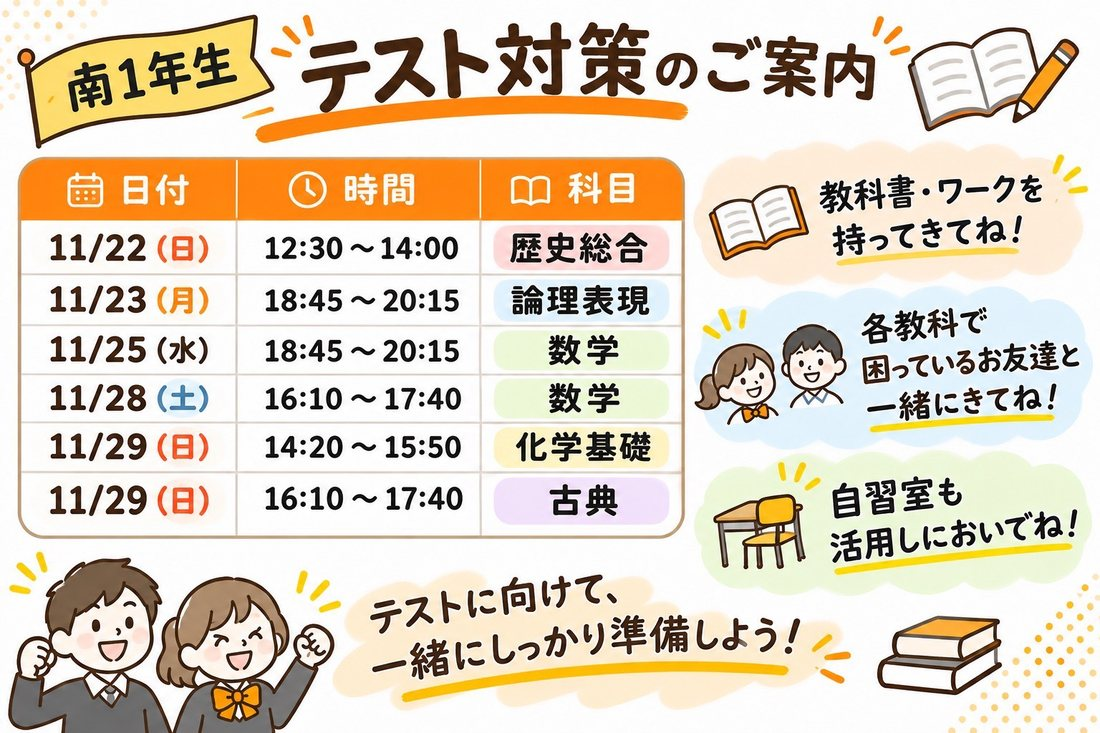
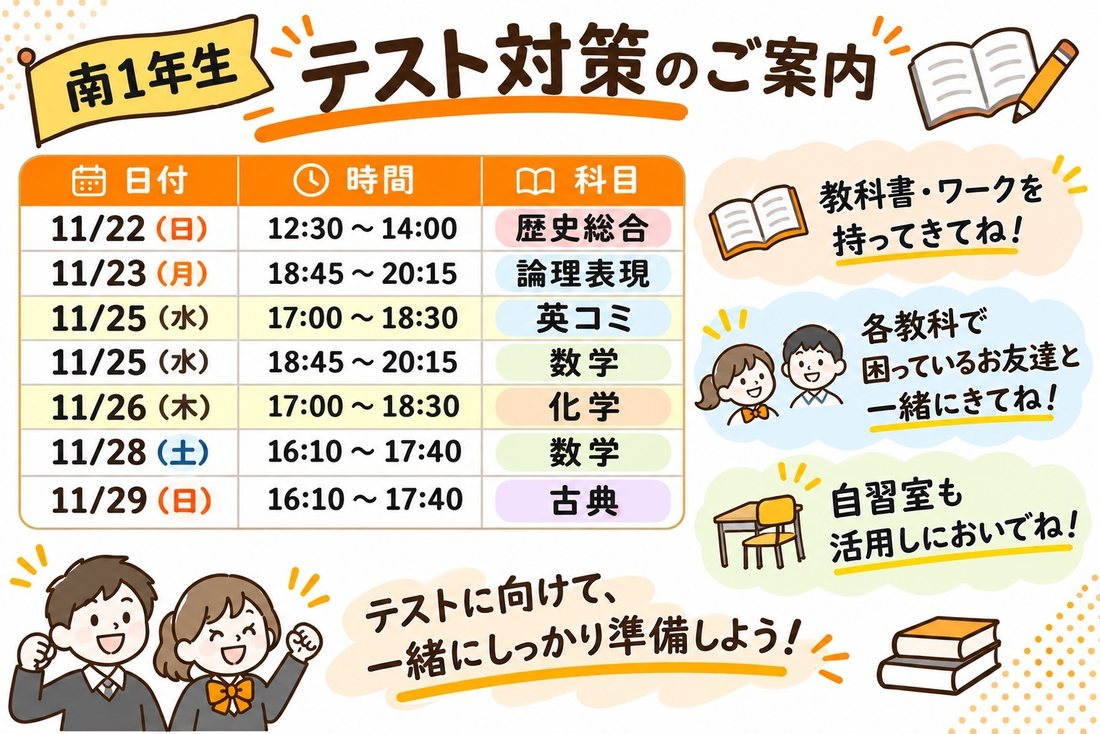
testtaisaku: 南1年の日程を変更（英コミ 11/25・化学 11/26 17:00〜を追加、11/29 化学基礎をやめる）
Claude-Session: https://claude.ai/code/session_018owQgFQp8tbjP1aYZa9Tmk

diff --git a/testtaisaku.html b/testtaisaku.html
@@ -222,7 +222,7 @@ footer p{margin:0 0 6px}
 <p class="sub">学校を<wbr>選んで、<wbr>学年の<wbr>タブを<wbr>押してください。</p>
 <p class="pick-hint" id="pick-hint">▼ あなたの学校は？</p>
 <div class="pick" role="group" aria-label="学校"><button class="sch" type="button" data-s="higashi" aria-pressed="false"><b>東</b><small>松山東高校</small></button><button class="sch" type="button" data-s="minami" aria-pressed="false"><b>南</b><small>松山南高校</small></button><button class="sch" type="button" data-s="kita" aria-pressed="false"><b>北</b><small>松山北高校</small></button><button class="sch" type="button" data-s="chuo" aria-pressed="false"><b>中央</b><small>松山中央高校</small></button><button class="sch" type="button" data-s="nishi" aria-pressed="false"><b>西</b><small>松山西中等教育学校</small></button><button class="sch" type="button" data-s="fuzoku" aria-pressed="false"><b>附属</b><small>愛媛大学附属高校</small></button></div>
-<div class="notebook" id="sc-higashi" data-s="higashi" data-short="東" hidden><p class="school-name"><b>松山東高校</b><span>2学期 期末テスト対策</span></p><p class="snote">全授業90分</p><div class="tabs" role="tablist" aria-label="学年"><button class="tab" role="tab" id="t-higashi-1" aria-controls="p-higashi-1" aria-selected="true" data-grade="1">1年生</button><button class="tab" role="tab" id="t-higashi-2" aria-controls="p-higashi-2" aria-selected="false" data-grade="2">2年生</button></div><div class="panel" role="tabpanel" id="p-higashi-1" aria-labelledby="t-higashi-1"><img src="testtaisaku/higashi_1.jpg?v=20261123" alt="松山東高校 1年生 テスト対策日程。11/21(土) 18:00〜 英コミ、11/25(水) 12:15〜 数学①、11/26(木) 12:15〜 歴史総合、11/26(木) 15:15〜 古典、11/28(土) 16:10〜 論表、11/28(土) 18:00〜 数学②、11/30(月) 17:00〜 化学基礎" width="1100" height="1375" loading="lazy"><details class="txt"><summary>日程を文字で見る</summary><table><tr><th>日付</th><th>時間</th><th>科目</th></tr><tr data-end="2026-11-21T19:30:00+09:00"><td class="d">11/21<span>（土）</span></td><td class="tm">18:00〜</td><td class="sj">英コミ</td></tr><tr data-end="2026-11-25T13:45:00+09:00"><td class="d">11/25<span>（水）</span></td><td class="tm">12:15〜</td><td class="sj">数学①</td></tr><tr data-end="2026-11-26T13:45:00+09:00"><td class="d">11/26<span>（木）</span></td><td class="tm">12:15〜</td><td class="sj">歴史総合</td></tr><tr data-end="2026-11-26T16:45:00+09:00"><td class="d">11/26<span>（木）</span></td><td class="tm">15:15〜</td><td class="sj">古典</td></tr><tr data-end="2026-11-28T17:40:00+09:00"><td class="d">11/28<span>（土）</span></td><td class="tm">16:10〜</td><td class="sj">論表</td></tr><tr data-end="2026-11-28T19:30:00+09:00"><td class="d">11/28<span>（土）</span></td><td class="tm">18:00〜</td><td class="sj">数学②</td></tr><tr data-end="2026-11-30T18:30:00+09:00"><td class="d">11/30<span>（月）</span></td><td class="tm">17:00〜</td><td class="sj">化学基礎</td></tr></table><p class="done-note">灰色は、終わった日程です。</p></details></div><div class="panel" role="tabpanel" id="p-higashi-2" aria-labelledby="t-higashi-2" hidden><img src="testtaisaku/higashi_2.jpg?v=20261123" alt="松山東高校 2年生 テスト対策日程。11/23(月・祝) 18:45〜 化学、11/25(水) 14:00〜 文系数学①、11/25(水) 15:00〜 理系数学①、11/25(水) 20:30〜 世界史、11/27(金) 17:00〜 古典、11/27(金) 18:45〜 理系数学②、11/27(金) 20:30〜 文系数学②、11/28(土) 14:20〜 論表" width="1100" height="1375" loading="lazy"><details class="txt"><summary>日程を文字で見る</summary><table><tr><th>日付</th><th>時間</th><th>科目</th></tr><tr data-end="2026-11-23T20:15:00+09:00"><td class="d">11/23<span>（月・祝）</span></td><td class="tm">18:45〜</td><td class="sj">化学</td></tr><tr data-end="2026-11-25T15:30:00+09:00"><td class="d">11/25<span>（水）</span></td><td class="tm">14:00〜</td><td class="sj">文系数学①</td></tr><tr data-end="2026-11-25T16:30:00+09:00"><td class="d">11/25<span>（水）</span></td><td class="tm">15:00〜</td><td class="sj">理系数学①</td></tr><tr data-end="2026-11-25T22:00:00+09:00"><td class="d">11/25<span>（水）</span></td><td class="tm">20:30〜</td><td class="sj">世界史</td></tr><tr data-end="2026-11-27T18:30:00+09:00"><td class="d">11/27<span>（金）</span></td><td class="tm">17:00〜</td><td class="sj">古典</td></tr><tr data-end="2026-11-27T20:15:00+09:00"><td class="d">11/27<span>（金）</span></td><td class="tm">18:45〜</td><td class="sj">理系数学②</td></tr><tr data-end="2026-11-27T22:00:00+09:00"><td class="d">11/27<span>（金）</span></td><td class="tm">20:30〜</td><td class="sj">文系数学②</td></tr><tr data-end="2026-11-28T15:50:00+09:00"><td class="d">11/28<span>（土）</span></td><td class="tm">14:20〜</td><td class="sj">論表</td></tr></table><p class="done-note">灰色は、終わった日程です。</p></details></div><div class="under"><a class="btn main" href="https://liff.line.me/1654282071-yKj0v7k8/landing?follow=%40354wbuiz&amp;lp=cX2AwV&amp;liff_id=1654282071-yKj0v7k8">この日程で<wbr>参加予約する</a></div></div><div class="notebook" id="sc-minami" data-s="minami" data-short="南" hidden><p class="school-name"><b>松山南高校</b><span>2学期 期末テスト対策</span></p><p class="snote">教科書・ワークを持ってきてください</p><div class="tabs" role="tablist" aria-label="学年"><button class="tab" role="tab" id="t-minami-1" aria-controls="p-minami-1" aria-selected="true" data-grade="1">1年生</button><button class="tab" role="tab" id="t-minami-2" aria-controls="p-minami-2" aria-selected="false" data-grade="2">2年生</button></div><div class="panel" role="tabpanel" id="p-minami-1" aria-labelledby="t-minami-1"><img src="testtaisaku/minami_1.jpg?v=20261123" alt="松山南高校 1年生 テスト対策日程。11/22(日) 12:30〜14:00 歴史総合、11/23(月・祝) 18:45〜20:15 論理表現、11/25(水) 18:45〜20:15 数学、11/28(土) 16:10〜17:40 数学、11/29(日) 14:20〜15:50 化学基礎、11/29(日) 16:10〜17:40 古典" width="1100" height="733" loading="lazy"><details class="txt"><summary>日程を文字で見る</summary><table><tr><th>日付</th><th>時間</th><th>科目</th></tr><tr data-end="2026-11-22T14:00:00+09:00"><td class="d">11/22<span>（日）</span></td><td class="tm">12:30〜14:00</td><td class="sj">歴史総合</td></tr><tr data-end="2026-11-23T20:15:00+09:00"><td class="d">11/23<span>（月・祝）</span></td><td class="tm">18:45〜20:15</td><td class="sj">論理表現</td></tr><tr data-end="2026-11-25T20:15:00+09:00"><td class="d">11/25<span>（水）</span></td><td class="tm">18:45〜20:15</td><td class="sj">数学</td></tr><tr data-end="2026-11-28T17:40:00+09:00"><td class="d">11/28<span>（土）</span></td><td class="tm">16:10〜17:40</td><td class="sj">数学</td></tr><tr data-end="2026-11-29T15:50:00+09:00"><td class="d">11/29<span>（日）</span></td><td class="tm">14:20〜15:50</td><td class="sj">化学基礎</td></tr><tr data-end="2026-11-29T17:40:00+09:00"><td class="d">11/29<span>（日）</span></td><td class="tm">16:10〜17:40</td><td class="sj">古典</td></tr></table><p class="done-note">灰色は、終わった日程です。</p></details></div><div class="panel" role="tabpanel" id="p-minami-2" aria-labelledby="t-minami-2" hidden><img src="testtaisaku/minami_2.jpg?v=20261123" alt="松山南高校 2年生 テスト対策日程。11/23(月・祝) 17:00〜18:30 古典、11/23(月・祝) 18:45〜20:15 生物、11/24(火) 14:00〜15:30 数学、11/26(木) 14:00〜15:30 英コミ、11/27(金) 15:15〜16:45 数学、11/29(日) 16:10〜17:40 化学" width="1100" height="733" loading="lazy"><details class="txt"><summary>日程を文字で見る</summary><table><tr><th>日付</th><th>時間</th><th>科目</th></tr><tr data-end="2026-11-23T18:30:00+09:00"><td class="d">11/23<span>（月・祝）</span></td><td class="tm">17:00〜18:30</td><td class="sj">古典</td></tr><tr data-end="2026-11-23T20:15:00+09:00"><td class="d">11/23<span>（月・祝）</span></td><td class="tm">18:45〜20:15</td><td class="sj">生物</td></tr><tr data-end="2026-11-24T15:30:00+09:00"><td class="d">11/24<span>（火）</span></td><td class="tm">14:00〜15:30</td><td class="sj">数学</td></tr><tr data-end="2026-11-26T15:30:00+09:00"><td class="d">11/26<span>（木）</span></td><td class="tm">14:00〜15:30</td><td class="sj">英コミ</td></tr><tr data-end="2026-11-27T16:45:00+09:00"><td class="d">11/27<span>（金）</span></td><td class="tm">15:15〜16:45</td><td class="sj">数学</td></tr><tr data-end="2026-11-29T17:40:00+09:00"><td class="d">11/29<span>（日）</span></td><td class="tm">16:10〜17:40</td><td class="sj">化学</td></tr></table><p class="done-note">灰色は、終わった日程です。</p></details></div><div class="under"><a class="btn main" href="https://liff.line.me/1654282071-yKj0v7k8/landing?follow=%40354wbuiz&amp;lp=cX2AwV&amp;liff_id=1654282071-yKj0v7k8">この日程で<wbr>参加予約する</a></div></div><div class="notebook" id="sc-kita" data-s="kita" data-short="北" hidden><p class="school-name"><b>松山北高校</b><span>2学期 期末テスト対策</span></p><div class="tabs" role="tablist" aria-label="学年"><button class="tab" role="tab" id="t-kita-1" aria-controls="p-kita-1" aria-selected="true" data-grade="1">1年生</button><button class="tab" role="tab" id="t-kita-2" aria-controls="p-kita-2" aria-selected="false" data-grade="2">2年生</button></div><div class="panel" role="tabpanel" id="p-kita-1" aria-labelledby="t-kita-1"><img src="testtaisaku/kita_1.jpg?v=20261123" alt="松山北高校 1年生 テスト対策日程。11/20(金) 18:45〜 論理表現、11/23(月・祝) 17:00〜18:30 数学、11/24(火) 17:00〜 言語文化、11/25(水) 17:00〜18:30 化学基礎、11/26(木) 15:20〜16:50 数学、11/26(木) 17:00〜 英語コミュニケーション" width="1100" height="1375" loading="lazy"><details class="txt"><summary>日程を文字で見る</summary><table><tr><th>日付</th><th>時間</th><th>科目</th></tr><tr data-end="2026-11-20T20:15:00+09:00"><td class="d">11/20<span>（金）</span></td><td class="tm">18:45〜</td><td class="sj">論理表現</td></tr><tr data-end="2026-11-23T18:30:00+09:00"><td class="d">11/23<span>（月・祝）</span></td><td class="tm">17:00〜18:30</td><td class="sj">数学</td></tr><tr data-end="2026-11-24T18:30:00+09:00"><td class="d">11/24<span>（火）</span></td><td class="tm">17:00〜</td><td class="sj">言語文化</td></tr><tr data-end="2026-11-25T18:30:00+09:00"><td class="d">11/25<span>（水）</span></td><td class="tm">17:00〜18:30</td><td class="sj">化学基礎</td></tr><tr data-end="2026-11-26T16:50:00+09:00"><td class="d">11/26<span>（木）</span></td><td class="tm">15:20〜16:50</td><td class="sj">数学</td></tr><tr data-end="2026-11-26T18:30:00+09:00"><td class="d">11/26<span>（木）</span></td><td class="tm">17:00〜</td><td class="sj">英語コミュニケーション</td></tr></table><p class="done-note">灰色は、終わった日程です。</p></details></div><div class="panel" role="tabpanel" id="p-kita-2" aria-labelledby="t-kita-2" hidden><img src="testtaisaku/kita_2.jpg?v=20261123" alt="松山北高校 2年生 テスト対策日程。11/23(月・祝) 17:00〜18:30 古文、11/24(火) 18:45〜20:15 数学（文系・理系合同）、11/25(水) 15:40〜16:50 物理（力学）、11/26(木) 18:45〜20:15 英語、11/27(金) 17:00〜18:30 化学、11/27(金) 18:45〜20:15 文系数学、11/27(金) 20:30〜22:00 理系数学" width="1100" height="1375" loading="lazy"><details class="txt"><summary>日程を文字で見る</summary><table><tr><th>日付</th><th>時間</th><th>科目</th></tr><tr data-end="2026-11-23T18:30:00+09:00"><td class="d">11/23<span>（月・祝）</span></td><td class="tm">17:00〜18:30</td><td class="sj">古文</td></tr><tr data-end="2026-11-24T20:15:00+09:00"><td class="d">11/24<span>（火）</span></td><td class="tm">18:45〜20:15</td><td class="sj">数学（文系・理系合同）</td></tr><tr data-end="2026-11-25T16:50:00+09:00"><td class="d">11/25<span>（水）</span></td><td class="tm">15:40〜16:50</td><td class="sj">物理（力学）</td></tr><tr data-end="2026-11-26T20:15:00+09:00"><td class="d">11/26<span>（木）</span></td><td class="tm">18:45〜20:15</td><td class="sj">英語</td></tr><tr data-end="2026-11-27T18:30:00+09:00"><td class="d">11/27<span>（金）</span></td><td class="tm">17:00〜18:30</td><td class="sj">化学</td></tr><tr data-end="2026-11-27T20:15:00+09:00"><td class="d">11/27<span>（金）</span></td><td class="tm">18:45〜20:15</td><td class="sj">文系数学</td></tr><tr data-end="2026-11-27T22:00:00+09:00"><td class="d">11/27<span>（金）</span></td><td class="tm">20:30〜22:00</td><td class="sj">理系数学</td></tr></table><p class="done-note">灰色は、終わった日程です。</p></details></div><div class="under"><a class="btn main" href="https://liff.line.me/1654282071-yKj0v7k8/landing?follow=%40354wbuiz&amp;lp=cX2AwV&amp;liff_id=1654282071-yKj0v7k8">この日程で<wbr>参加予約する</a></div></div><div class="notebook" id="sc-chuo" data-s="chuo" data-short="中央" hidden><p class="school-name"><b>松山中央高校</b><span>2学期 期末テスト対策</span></p><p class="snote">2年生は、希望があればテスト対策の追加もあります</p><div class="tabs" role="tablist" aria-label="学年"><button class="tab" role="tab" id="t-chuo-1" aria-controls="p-chuo-1" aria-selected="true" data-grade="1">1年生</button><button class="tab" role="tab" id="t-chuo-2" aria-controls="p-chuo-2" aria-selected="false" data-grade="2">2年生</button></div><div class="panel" role="tabpanel" id="p-chuo-1" aria-labelledby="t-chuo-1"><img src="testtaisaku/chuo_1.jpg?v=20261123" alt="松山中央高校 1年生 テスト対策日程。11/24(火) 17:00〜18:30 数A 石井校、11/25(水) 13:30〜15:00 論表 石井校、11/26(木) 13:30〜15:00 英コミ 石井校、11/28(土) 12:30〜14:00 数Ⅰ 大街道、11/30(月) 16:30〜18:00 化学基礎 石井校" width="1100" height="733" loading="lazy"><details class="txt"><summary>日程を文字で見る</summary><table><tr><th>日付</th><th>時間</th><th>科目</th><th>教室</th></tr><tr data-end="2026-11-24T18:30:00+09:00"><td class="d">11/24<span>（火）</span></td><td class="tm">17:00〜18:30</td><td class="sj">数A</td><td class="pl">石井校</td></tr><tr data-end="2026-11-25T15:00:00+09:00"><td class="d">11/25<span>（水）</span></td><td class="tm">13:30〜15:00</td><td class="sj">論表</td><td class="pl">石井校</td></tr><tr data-end="2026-11-26T15:00:00+09:00"><td class="d">11/26<span>（木）</span></td><td class="tm">13:30〜15:00</td><td class="sj">英コミ</td><td class="pl">石井校</td></tr><tr data-end="2026-11-28T14:00:00+09:00"><td class="d">11/28<span>（土）</span></td><td class="tm">12:30〜14:00</td><td class="sj">数Ⅰ</td><td class="pl">大街道</td></tr><tr data-end="2026-11-30T18:00:00+09:00"><td class="d">11/30<span>（月）</span></td><td class="tm">16:30〜18:00</td><td class="sj">化学基礎</td><td class="pl">石井校</td></tr></table><p class="done-note">灰色は、終わった日程です。</p></details></div><div class="panel" role="tabpanel" id="p-chuo-2" aria-labelledby="t-chuo-2" hidden><img src="testtaisaku/chuo_2.jpg?v=20261123" alt="松山中央高校 2年生 テスト対策日程。11/23(月・祝) 15:15〜16:45 数学B 大街道、11/28(土) 12:30〜14:00 数学Ⅱ 大街道、11/28(土) 14:20〜15:50 化学 大街道、11/30(月) 15:00〜16:30 論理表現 石井校" width="1100" height="733" loading="lazy"><details class="txt"><summary>日程を文字で見る</summary><table><tr><th>日付</th><th>時間</th><th>科目</th><th>教室</th></tr><tr data-end="2026-11-23T16:45:00+09:00"><td class="d">11/23<span>（月・祝）</span></td><td class="tm">15:15〜16:45</td><td class="sj">数学B</td><td class="pl">大街道</td></tr><tr data-end="2026-11-28T14:00:00+09:00"><td class="d">11/28<span>（土）</span></td><td class="tm">12:30〜14:00</td><td class="sj">数学Ⅱ</td><td class="pl">大街道</td></tr><tr data-end="2026-11-28T15:50:00+09:00"><td class="d">11/28<span>（土）</span></td><td class="tm">14:20〜15:50</td><td class="sj">化学</td><td class="pl">大街道</td></tr><tr data-end="2026-11-30T16:30:00+09:00"><td class="d">11/30<span>（月）</span></td><td class="tm">15:00〜16:30</td><td class="sj">論理表現</td><td class="pl">石井校</td></tr></table><p class="done-note">灰色は、終わった日程です。</p></details></div><div class="under"><a class="btn main" href="https://liff.line.me/1654282071-yKj0v7k8/landing?follow=%40354wbuiz&amp;lp=cX2AwV&amp;liff_id=1654282071-yKj0v7k8">この日程で<wbr>参加予約する</a></div></div><div class="notebook" id="sc-nishi" data-s="nishi" data-short="西" hidden><p class="school-name"><b>松山西中等教育学校</b><span>2学期 期末テスト対策</span></p><div class="tabs" role="tablist" aria-label="学年"><button class="tab" role="tab" id="t-nishi-4" aria-controls="p-nishi-4" aria-selected="true" data-grade="4">4年生</button><button class="tab" role="tab" id="t-nishi-5" aria-controls="p-nishi-5" aria-selected="false" data-grade="5">5年生</button></div><div class="panel" role="tabpanel" id="p-nishi-4" aria-labelledby="t-nishi-4"><img src="testtaisaku/nishi_4.jpg?v=20261123" alt="松山西中等教育学校 4年生 テスト対策日程。11/22(日) 12:30〜14:00 数学Ⅱα、11/24(火) 17:00〜18:30 英コミ、11/26(木) 14:00〜15:30 論表、11/28(土) 14:20〜15:50 数学Ⅱβ、11/29(日) 12:30〜14:00 化学基礎、11/30(月) 17:00〜18:30 言語文化" width="1100" height="1204" loading="lazy"><details class="txt"><summary>日程を文字で見る</summary><table><tr><th>日付</th><th>時間</th><th>科目</th></tr><tr data-end="2026-11-22T14:00:00+09:00"><td class="d">11/22<span>（日）</span></td><td class="tm">12:30〜14:00</td><td class="sj">数学Ⅱα</td></tr><tr data-end="2026-11-24T18:30:00+09:00"><td class="d">11/24<span>（火）</span></td><td class="tm">17:00〜18:30</td><td class="sj">英コミ</td></tr><tr data-end="2026-11-26T15:30:00+09:00"><td class="d">11/26<span>（木）</span></td><td class="tm">14:00〜15:30</td><td class="sj">論表</td></tr><tr data-end="2026-11-28T15:50:00+09:00"><td class="d">11/28<span>（土）</span></td><td class="tm">14:20〜15:50</td><td class="sj">数学Ⅱβ</td></tr><tr data-end="2026-11-29T14:00:00+09:00"><td class="d">11/29<span>（日）</span></td><td class="tm">12:30〜14:00</td><td class="sj">化学基礎</td></tr><tr data-end="2026-11-30T18:30:00+09:00"><td class="d">11/30<span>（月）</span></td><td class="tm">17:00〜18:30</td><td class="sj">言語文化</td></tr></table><p class="done-note">灰色は、終わった日程です。</p></details></div><div class="panel" role="tabpanel" id="p-nishi-5" aria-labelledby="t-nishi-5" hidden><img src="testtaisaku/nishi_5.jpg?v=20261123" alt="松山西中等教育学校 5年生 テスト対策日程。11/22(日) 16:10〜17:40 数学Ⅱ、11/26(木) 15:15〜16:45 数学B、11/30(月) 18:45〜20:15 論表" width="1100" height="1204" loading="lazy"><details class="txt"><summary>日程を文字で見る</summary><table><tr><th>日付</th><th>時間</th><th>科目</th></tr><tr data-end="2026-11-22T17:40:00+09:00"><td class="d">11/22<span>（日）</span></td><td class="tm">16:10〜17:40</td><td class="sj">数学Ⅱ</td></tr><tr data-end="2026-11-26T16:45:00+09:00"><td class="d">11/26<span>（木）</span></td><td class="tm">15:15〜16:45</td><td class="sj">数学B</td></tr><tr data-end="2026-11-30T20:15:00+09:00"><td class="d">11/30<span>（月）</span></td><td class="tm">18:45〜20:15</td><td class="sj">論表</td></tr></table><p class="done-note">灰色は、終わった日程です。</p></details></div><div class="under"><a class="btn main" href="https://liff.line.me/1654282071-yKj0v7k8/landing?follow=%40354wbuiz&amp;lp=cX2AwV&amp;liff_id=1654282071-yKj0v7k8">この日程で<wbr>参加予約する</a></div></div><div class="notebook" id="sc-fuzoku" data-s="fuzoku" data-short="附属" hidden><p class="school-name"><b>愛媛大学附属高校</b><span>2学期 期末テスト対策</span></p><div class="tabs" role="tablist" aria-label="学年"><button class="tab" role="tab" id="t-fuzoku-1" aria-controls="p-fuzoku-1" aria-selected="true" data-grade="1">1年生</button><button class="tab" role="tab" id="t-fuzoku-2" aria-controls="p-fuzoku-2" aria-selected="false" data-grade="2">2年生</button></div><div class="panel" role="tabpanel" id="p-fuzoku-1" aria-labelledby="t-fuzoku-1"><img src="testtaisaku/fuzoku_1.jpg?v=20261123" alt="愛媛大学附属高校 1年生 テスト対策日程。11/23(月・祝) 18:45〜20:15 言語文化、11/25(水) 20:30〜22:00 数学Ⅰ、11/26(木) 17:00〜18:30 論理・表現、11/27(金) 14:00〜15:30 化学基礎、11/30(月) 14:00〜15:30 英コミ、11/30(月) 18:45〜20:15 数学A" width="1100" height="1375" loading="lazy"><details class="txt"><summary>日程を文字で見る</summary><table><tr><th>日付</th><th>時間</th><th>科目</th></tr><tr data-end="2026-11-23T20:15:00+09:00"><td class="d">11/23<span>（月・祝）</span></td><td class="tm">18:45〜20:15</td><td class="sj">言語文化</td></tr><tr data-end="2026-11-25T22:00:00+09:00"><td class="d">11/25<span>（水）</span></td><td class="tm">20:30〜22:00</td><td class="sj">数学Ⅰ</td></tr><tr data-end="2026-11-26T18:30:00+09:00"><td class="d">11/26<span>（木）</span></td><td class="tm">17:00〜18:30</td><td class="sj">論理・表現</td></tr><tr data-end="2026-11-27T15:30:00+09:00"><td class="d">11/27<span>（金）</span></td><td class="tm">14:00〜15:30</td><td class="sj">化学基礎</td></tr><tr data-end="2026-11-30T15:30:00+09:00"><td class="d">11/30<span>（月）</span></td><td class="tm">14:00〜15:30</td><td class="sj">英コミ</td></tr><tr data-end="2026-11-30T20:15:00+09:00"><td class="d">11/30<span>（月）</span></td><td class="tm">18:45〜20:15</td><td class="sj">数学A</td></tr></table><p class="done-note">灰色は、終わった日程です。</p></details></div><div class="panel" role="tabpanel" id="p-fuzoku-2" aria-labelledby="t-fuzoku-2" hidden><img src="testtaisaku/fuzoku_2.jpg?v=20261123" alt="愛媛大学附属高校 2年生 テスト対策日程。11/24(火) 18:45〜20:15 古典、11/24(火) 20:30〜22:00 数B、11/25(水) 12:15〜13:45 歴史総合、11/25(水) 14:00〜15:30 化学、11/28(土) 16:10〜17:40 数Ⅱ、11/28(土) 18:00〜19:30 英コミ" width="1100" height="1375" loading="lazy"><details class="txt"><summary>日程を文字で見る</summary><table><tr><th>日付</th><th>時間</th><th>科目</th></tr><tr data-end="2026-11-24T20:15:00+09:00"><td class="d">11/24<span>（火）</span></td><td class="tm">18:45〜20:15</td><td class="sj">古典</td></tr><tr data-end="2026-11-24T22:00:00+09:00"><td class="d">11/24<span>（火）</span></td><td class="tm">20:30〜22:00</td><td class="sj">数B</td></tr><tr data-end="2026-11-25T13:45:00+09:00"><td class="d">11/25<span>（水）</span></td><td class="tm">12:15〜13:45</td><td class="sj">歴史総合</td></tr><tr data-end="2026-11-25T15:30:00+09:00"><td class="d">11/25<span>（水）</span></td><td class="tm">14:00〜15:30</td><td class="sj">化学</td></tr><tr data-end="2026-11-28T17:40:00+09:00"><td class="d">11/28<span>（土）</span></td><td class="tm">16:10〜17:40</td><td class="sj">数Ⅱ</td></tr><tr data-end="2026-11-28T19:30:00+09:00"><td class="d">11/28<span>（土）</span></td><td class="tm">18:00〜19:30</td><td class="sj">英コミ</td></tr></table><p class="done-note">灰色は、終わった日程です。</p></details></div><div class="under"><a class="btn main" href="https://liff.line.me/1654282071-yKj0v7k8/landing?follow=%40354wbuiz&amp;lp=cX2AwV&amp;liff_id=1654282071-yKj0v7k8">この日程で<wbr>参加予約する</a></div></div>
+<div class="notebook" id="sc-higashi" data-s="higashi" data-short="東" hidden><p class="school-name"><b>松山東高校</b><span>2学期 期末テスト対策</span></p><p class="snote">全授業90分</p><div class="tabs" role="tablist" aria-label="学年"><button class="tab" role="tab" id="t-higashi-1" aria-controls="p-higashi-1" aria-selected="true" data-grade="1">1年生</button><button class="tab" role="tab" id="t-higashi-2" aria-controls="p-higashi-2" aria-selected="false" data-grade="2">2年生</button></div><div class="panel" role="tabpanel" id="p-higashi-1" aria-labelledby="t-higashi-1"><img src="testtaisaku/higashi_1.jpg?v=20261124" alt="松山東高校 1年生 テスト対策日程。11/21(土) 18:00〜 英コミ、11/25(水) 12:15〜 数学①、11/26(木) 12:15〜 歴史総合、11/26(木) 15:15〜 古典、11/28(土) 16:10〜 論表、11/28(土) 18:00〜 数学②、11/30(月) 17:00〜 化学基礎" width="1100" height="1375" loading="lazy"><details class="txt"><summary>日程を文字で見る</summary><table><tr><th>日付</th><th>時間</th><th>科目</th></tr><tr data-end="2026-11-21T19:30:00+09:00"><td class="d">11/21<span>（土）</span></td><td class="tm">18:00〜</td><td class="sj">英コミ</td></tr><tr data-end="2026-11-25T13:45:00+09:00"><td class="d">11/25<span>（水）</span></td><td class="tm">12:15〜</td><td class="sj">数学①</td></tr><tr data-end="2026-11-26T13:45:00+09:00"><td class="d">11/26<span>（木）</span></td><td class="tm">12:15〜</td><td class="sj">歴史総合</td></tr><tr data-end="2026-11-26T16:45:00+09:00"><td class="d">11/26<span>（木）</span></td><td class="tm">15:15〜</td><td class="sj">古典</td></tr><tr data-end="2026-11-28T17:40:00+09:00"><td class="d">11/28<span>（土）</span></td><td class="tm">16:10〜</td><td class="sj">論表</td></tr><tr data-end="2026-11-28T19:30:00+09:00"><td class="d">11/28<span>（土）</span></td><td class="tm">18:00〜</td><td class="sj">数学②</td></tr><tr data-end="2026-11-30T18:30:00+09:00"><td class="d">11/30<span>（月）</span></td><td class="tm">17:00〜</td><td class="sj">化学基礎</td></tr></table><p class="done-note">灰色は、終わった日程です。</p></details></div><div class="panel" role="tabpanel" id="p-higashi-2" aria-labelledby="t-higashi-2" hidden><img src="testtaisaku/higashi_2.jpg?v=20261124" alt="松山東高校 2年生 テスト対策日程。11/23(月・祝) 18:45〜 化学、11/25(水) 14:00〜 文系数学①、11/25(水) 15:00〜 理系数学①、11/25(水) 20:30〜 世界史、11/27(金) 17:00〜 古典、11/27(金) 18:45〜 理系数学②、11/27(金) 20:30〜 文系数学②、11/28(土) 14:20〜 論表" width="1100" height="1375" loading="lazy"><details class="txt"><summary>日程を文字で見る</summary><table><tr><th>日付</th><th>時間</th><th>科目</th></tr><tr data-end="2026-11-23T20:15:00+09:00"><td class="d">11/23<span>（月・祝）</span></td><td class="tm">18:45〜</td><td class="sj">化学</td></tr><tr data-end="2026-11-25T15:30:00+09:00"><td class="d">11/25<span>（水）</span></td><td class="tm">14:00〜</td><td class="sj">文系数学①</td></tr><tr data-end="2026-11-25T16:30:00+09:00"><td class="d">11/25<span>（水）</span></td><td class="tm">15:00〜</td><td class="sj">理系数学①</td></tr><tr data-end="2026-11-25T22:00:00+09:00"><td class="d">11/25<span>（水）</span></td><td class="tm">20:30〜</td><td class="sj">世界史</td></tr><tr data-end="2026-11-27T18:30:00+09:00"><td class="d">11/27<span>（金）</span></td><td class="tm">17:00〜</td><td class="sj">古典</td></tr><tr data-end="2026-11-27T20:15:00+09:00"><td class="d">11/27<span>（金）</span></td><td class="tm">18:45〜</td><td class="sj">理系数学②</td></tr><tr data-end="2026-11-27T22:00:00+09:00"><td class="d">11/27<span>（金）</span></td><td class="tm">20:30〜</td><td class="sj">文系数学②</td></tr><tr data-end="2026-11-28T15:50:00+09:00"><td class="d">11/28<span>（土）</span></td><td class="tm">14:20〜</td><td class="sj">論表</td></tr></table><p class="done-note">灰色は、終わった日程です。</p></details></div><div class="under"><a class="btn main" href="https://liff.line.me/1654282071-yKj0v7k8/landing?follow=%40354wbuiz&amp;lp=cX2AwV&amp;liff_id=1654282071-yKj0v7k8">この日程で<wbr>参加予約する</a></div></div><div class="notebook" id="sc-minami" data-s="minami" data-short="南" hidden><p class="school-name"><b>松山南高校</b><span>2学期 期末テスト対策</span></p><p class="snote">教科書・ワークを持ってきてください</p><div class="tabs" role="tablist" aria-label="学年"><button class="tab" role="tab" id="t-minami-1" aria-controls="p-minami-1" aria-selected="true" data-grade="1">1年生</button><button class="tab" role="tab" id="t-minami-2" aria-controls="p-minami-2" aria-selected="false" data-grade="2">2年生</button></div><div class="panel" role="tabpanel" id="p-minami-1" aria-labelledby="t-minami-1"><img src="testtaisaku/minami_1.jpg?v=20261124" alt="松山南高校 1年生 テスト対策日程。11/22(日) 12:30〜14:00 歴史総合、11/23(月・祝) 18:45〜20:15 論理表現、11/25(水) 17:00〜18:30 英コミ、11/25(水) 18:45〜20:15 数学、11/26(木) 17:00〜18:30 化学、11/28(土) 16:10〜17:40 数学、11/29(日) 16:10〜17:40 古典" width="1100" height="734" loading="lazy"><details class="txt"><summary>日程を文字で見る</summary><table><tr><th>日付</th><th>時間</th><th>科目</th></tr><tr data-end="2026-11-22T14:00:00+09:00"><td class="d">11/22<span>（日）</span></td><td class="tm">12:30〜14:00</td><td class="sj">歴史総合</td></tr><tr data-end="2026-11-23T20:15:00+09:00"><td class="d">11/23<span>（月・祝）</span></td><td class="tm">18:45〜20:15</td><td class="sj">論理表現</td></tr><tr data-end="2026-11-25T18:30:00+09:00"><td class="d">11/25<span>（水）</span></td><td class="tm">17:00〜18:30</td><td class="sj">英コミ</td></tr><tr data-end="2026-11-25T20:15:00+09:00"><td class="d">11/25<span>（水）</span></td><td class="tm">18:45〜20:15</td><td class="sj">数学</td></tr><tr data-end="2026-11-26T18:30:00+09:00"><td class="d">11/26<span>（木）</span></td><td class="tm">17:00〜18:30</td><td class="sj">化学</td></tr><tr data-end="2026-11-28T17:40:00+09:00"><td class="d">11/28<span>（土）</span></td><td class="tm">16:10〜17:40</td><td class="sj">数学</td></tr><tr data-end="2026-11-29T17:40:00+09:00"><td class="d">11/29<span>（日）</span></td><td class="tm">16:10〜17:40</td><td class="sj">古典</td></tr></table><p class="done-note">灰色は、終わった日程です。</p></details></div><div class="panel" role="tabpanel" id="p-minami-2" aria-labelledby="t-minami-2" hidden><img src="testtaisaku/minami_2.jpg?v=20261124" alt="松山南高校 2年生 テスト対策日程。11/23(月・祝) 17:00〜18:30 古典、11/23(月・祝) 18:45〜20:15 生物、11/24(火) 14:00〜15:30 数学、11/26(木) 14:00〜15:30 英コミ、11/27(金) 15:15〜16:45 数学、11/29(日) 16:10〜17:40 化学" width="1100" height="733" loading="lazy"><details class="txt"><summary>日程を文字で見る</summary><table><tr><th>日付</th><th>時間</th><th>科目</th></tr><tr data-end="2026-11-23T18:30:00+09:00"><td class="d">11/23<span>（月・祝）</span></td><td class="tm">17:00〜18:30</td><td class="sj">古典</td></tr><tr data-end="2026-11-23T20:15:00+09:00"><td class="d">11/23<span>（月・祝）</span></td><td class="tm">18:45〜20:15</td><td class="sj">生物</td></tr><tr data-end="2026-11-24T15:30:00+09:00"><td class="d">11/24<span>（火）</span></td><td class="tm">14:00〜15:30</td><td class="sj">数学</td></tr><tr data-end="2026-11-26T15:30:00+09:00"><td class="d">11/26<span>（木）</span></td><td class="tm">14:00〜15:30</td><td class="sj">英コミ</td></tr><tr data-end="2026-11-27T16:45:00+09:00"><td class="d">11/27<span>（金）</span></td><td class="tm">15:15〜16:45</td><td class="sj">数学</td></tr><tr data-end="2026-11-29T17:40:00+09:00"><td class="d">11/29<span>（日）</span></td><td class="tm">16:10〜17:40</td><td class="sj">化学</td></tr></table><p class="done-note">灰色は、終わった日程です。</p></details></div><div class="under"><a class="btn main" href="https://liff.line.me/1654282071-yKj0v7k8/landing?follow=%40354wbuiz&amp;lp=cX2AwV&amp;liff_id=1654282071-yKj0v7k8">この日程で<wbr>参加予約する</a></div></div><div class="notebook" id="sc-kita" data-s="kita" data-short="北" hidden><p class="school-name"><b>松山北高校</b><span>2学期 期末テスト対策</span></p><div class="tabs" role="tablist" aria-label="学年"><button class="tab" role="tab" id="t-kita-1" aria-controls="p-kita-1" aria-selected="true" data-grade="1">1年生</button><button class="tab" role="tab" id="t-kita-2" aria-controls="p-kita-2" aria-selected="false" data-grade="2">2年生</button></div><div class="panel" role="tabpanel" id="p-kita-1" aria-labelledby="t-kita-1"><img src="testtaisaku/kita_1.jpg?v=20261124" alt="松山北高校 1年生 テスト対策日程。11/20(金) 18:45〜 論理表現、11/23(月・祝) 17:00〜18:30 数学、11/24(火) 17:00〜 言語文化、11/25(水) 17:00〜18:30 化学基礎、11/26(木) 15:20〜16:50 数学、11/26(木) 17:00〜 英語コミュニケーション" width="1100" height="1375" loading="lazy"><details class="txt"><summary>日程を文字で見る</summary><table><tr><th>日付</th><th>時間</th><th>科目</th></tr><tr data-end="2026-11-20T20:15:00+09:00"><td class="d">11/20<span>（金）</span></td><td class="tm">18:45〜</td><td class="sj">論理表現</td></tr><tr data-end="2026-11-23T18:30:00+09:00"><td class="d">11/23<span>（月・祝）</span></td><td class="tm">17:00〜18:30</td><td class="sj">数学</td></tr><tr data-end="2026-11-24T18:30:00+09:00"><td class="d">11/24<span>（火）</span></td><td class="tm">17:00〜</td><td class="sj">言語文化</td></tr><tr data-end="2026-11-25T18:30:00+09:00"><td class="d">11/25<span>（水）</span></td><td class="tm">17:00〜18:30</td><td class="sj">化学基礎</td></tr><tr data-end="2026-11-26T16:50:00+09:00"><td class="d">11/26<span>（木）</span></td><td class="tm">15:20〜16:50</td><td class="sj">数学</td></tr><tr data-end="2026-11-26T18:30:00+09:00"><td class="d">11/26<span>（木）</span></td><td class="tm">17:00〜</td><td class="sj">英語コミュニケーション</td></tr></table><p class="done-note">灰色は、終わった日程です。</p></details></div><div class="panel" role="tabpanel" id="p-kita-2" aria-labelledby="t-kita-2" hidden><img src="testtaisaku/kita_2.jpg?v=20261124" alt="松山北高校 2年生 テスト対策日程。11/23(月・祝) 17:00〜18:30 古文、11/24(火) 18:45〜20:15 数学（文系・理系合同）、11/25(水) 15:40〜16:50 物理（力学）、11/26(木) 18:45〜20:15 英語、11/27(金) 17:00〜18:30 化学、11/27(金) 18:45〜20:15 文系数学、11/27(金) 20:30〜22:00 理系数学" width="1100" height="1375" loading="lazy"><details class="txt"><summary>日程を文字で見る</summary><table><tr><th>日付</th><th>時間</th><th>科目</th></tr><tr data-end="2026-11-23T18:30:00+09:00"><td class="d">11/23<span>（月・祝）</span></td><td class="tm">17:00〜18:30</td><td class="sj">古文</td></tr><tr data-end="2026-11-24T20:15:00+09:00"><td class="d">11/24<span>（火）</span></td><td class="tm">18:45〜20:15</td><td class="sj">数学（文系・理系合同）</td></tr><tr data-end="2026-11-25T16:50:00+09:00"><td class="d">11/25<span>（水）</span></td><td class="tm">15:40〜16:50</td><td class="sj">物理（力学）</td></tr><tr data-end="2026-11-26T20:15:00+09:00"><td class="d">11/26<span>（木）</span></td><td class="tm">18:45〜20:15</td><td class="sj">英語</td></tr><tr data-end="2026-11-27T18:30:00+09:00"><td class="d">11/27<span>（金）</span></td><td class="tm">17:00〜18:30</td><td class="sj">化学</td></tr><tr data-end="2026-11-27T20:15:00+09:00"><td class="d">11/27<span>（金）</span></td><td class="tm">18:45〜20:15</td><td class="sj">文系数学</td></tr><tr data-end="2026-11-27T22:00:00+09:00"><td class="d">11/27<span>（金）</span></td><td class="tm">20:30〜22:00</td><td class="sj">理系数学</td></tr></table><p class="done-note">灰色は、終わった日程です。</p></details></div><div class="under"><a class="btn main" href="https://liff.line.me/1654282071-yKj0v7k8/landing?follow=%40354wbuiz&amp;lp=cX2AwV&amp;liff_id=1654282071-yKj0v7k8">この日程で<wbr>参加予約する</a></div></div><div class="notebook" id="sc-chuo" data-s="chuo" data-short="中央" hidden><p class="school-name"><b>松山中央高校</b><span>2学期 期末テスト対策</span></p><p class="snote">2年生は、希望があればテスト対策の追加もあります</p><div class="tabs" role="tablist" aria-label="学年"><button class="tab" role="tab" id="t-chuo-1" aria-controls="p-chuo-1" aria-selected="true" data-grade="1">1年生</button><button class="tab" role="tab" id="t-chuo-2" aria-controls="p-chuo-2" aria-selected="false" data-grade="2">2年生</button></div><div class="panel" role="tabpanel" id="p-chuo-1" aria-labelledby="t-chuo-1"><img src="testtaisaku/chuo_1.jpg?v=20261124" alt="松山中央高校 1年生 テスト対策日程。11/24(火) 17:00〜18:30 数A 石井校、11/25(水) 13:30〜15:00 論表 石井校、11/26(木) 13:30〜15:00 英コミ 石井校、11/28(土) 12:30〜14:00 数Ⅰ 大街道、11/30(月) 16:30〜18:00 化学基礎 石井校" width="1100" height="733" loading="lazy"><details class="txt"><summary>日程を文字で見る</summary><table><tr><th>日付</th><th>時間</th><th>科目</th><th>教室</th></tr><tr data-end="2026-11-24T18:30:00+09:00"><td class="d">11/24<span>（火）</span></td><td class="tm">17:00〜18:30</td><td class="sj">数A</td><td class="pl">石井校</td></tr><tr data-end="2026-11-25T15:00:00+09:00"><td class="d">11/25<span>（水）</span></td><td class="tm">13:30〜15:00</td><td class="sj">論表</td><td class="pl">石井校</td></tr><tr data-end="2026-11-26T15:00:00+09:00"><td class="d">11/26<span>（木）</span></td><td class="tm">13:30〜15:00</td><td class="sj">英コミ</td><td class="pl">石井校</td></tr><tr data-end="2026-11-28T14:00:00+09:00"><td class="d">11/28<span>（土）</span></td><td class="tm">12:30〜14:00</td><td class="sj">数Ⅰ</td><td class="pl">大街道</td></tr><tr data-end="2026-11-30T18:00:00+09:00"><td class="d">11/30<span>（月）</span></td><td class="tm">16:30〜18:00</td><td class="sj">化学基礎</td><td class="pl">石井校</td></tr></table><p class="done-note">灰色は、終わった日程です。</p></details></div><div class="panel" role="tabpanel" id="p-chuo-2" aria-labelledby="t-chuo-2" hidden><img src="testtaisaku/chuo_2.jpg?v=20261124" alt="松山中央高校 2年生 テスト対策日程。11/23(月・祝) 15:15〜16:45 数学B 大街道、11/28(土) 12:30〜14:00 数学Ⅱ 大街道、11/28(土) 14:20〜15:50 化学 大街道、11/30(月) 15:00〜16:30 論理表現 石井校" width="1100" height="733" loading="lazy"><details class="txt"><summary>日程を文字で見る</summary><table><tr><th>日付</th><th>時間</th><th>科目</th><th>教室</th></tr><tr data-end="2026-11-23T16:45:00+09:00"><td class="d">11/23<span>（月・祝）</span></td><td class="tm">15:15〜16:45</td><td class="sj">数学B</td><td class="pl">大街道</td></tr><tr data-end="2026-11-28T14:00:00+09:00"><td class="d">11/28<span>（土）</span></td><td class="tm">12:30〜14:00</td><td class="sj">数学Ⅱ</td><td class="pl">大街道</td></tr><tr data-end="2026-11-28T15:50:00+09:00"><td class="d">11/28<span>（土）</span></td><td class="tm">14:20〜15:50</td><td class="sj">化学</td><td class="pl">大街道</td></tr><tr data-end="2026-11-30T16:30:00+09:00"><td class="d">11/30<span>（月）</span></td><td class="tm">15:00〜16:30</td><td class="sj">論理表現</td><td class="pl">石井校</td></tr></table><p class="done-note">灰色は、終わった日程です。</p></details></div><div class="under"><a class="btn main" href="https://liff.line.me/1654282071-yKj0v7k8/landing?follow=%40354wbuiz&amp;lp=cX2AwV&amp;liff_id=1654282071-yKj0v7k8">この日程で<wbr>参加予約する</a></div></div><div class="notebook" id="sc-nishi" data-s="nishi" data-short="西" hidden><p class="school-name"><b>松山西中等教育学校</b><span>2学期 期末テスト対策</span></p><div class="tabs" role="tablist" aria-label="学年"><button class="tab" role="tab" id="t-nishi-4" aria-controls="p-nishi-4" aria-selected="true" data-grade="4">4年生</button><button class="tab" role="tab" id="t-nishi-5" aria-controls="p-nishi-5" aria-selected="false" data-grade="5">5年生</button></div><div class="panel" role="tabpanel" id="p-nishi-4" aria-labelledby="t-nishi-4"><img src="testtaisaku/nishi_4.jpg?v=20261124" alt="松山西中等教育学校 4年生 テスト対策日程。11/22(日) 12:30〜14:00 数学Ⅱα、11/24(火) 17:00〜18:30 英コミ、11/26(木) 14:00〜15:30 論表、11/28(土) 14:20〜15:50 数学Ⅱβ、11/29(日) 12:30〜14:00 化学基礎、11/30(月) 17:00〜18:30 言語文化" width="1100" height="1204" loading="lazy"><details class="txt"><summary>日程を文字で見る</summary><table><tr><th>日付</th><th>時間</th><th>科目</th></tr><tr data-end="2026-11-22T14:00:00+09:00"><td class="d">11/22<span>（日）</span></td><td class="tm">12:30〜14:00</td><td class="sj">数学Ⅱα</td></tr><tr data-end="2026-11-24T18:30:00+09:00"><td class="d">11/24<span>（火）</span></td><td class="tm">17:00〜18:30</td><td class="sj">英コミ</td></tr><tr data-end="2026-11-26T15:30:00+09:00"><td class="d">11/26<span>（木）</span></td><td class="tm">14:00〜15:30</td><td class="sj">論表</td></tr><tr data-end="2026-11-28T15:50:00+09:00"><td class="d">11/28<span>（土）</span></td><td class="tm">14:20〜15:50</td><td class="sj">数学Ⅱβ</td></tr><tr data-end="2026-11-29T14:00:00+09:00"><td class="d">11/29<span>（日）</span></td><td class="tm">12:30〜14:00</td><td class="sj">化学基礎</td></tr><tr data-end="2026-11-30T18:30:00+09:00"><td class="d">11/30<span>（月）</span></td><td class="tm">17:00〜18:30</td><td class="sj">言語文化</td></tr></table><p class="done-note">灰色は、終わった日程です。</p></details></div><div class="panel" role="tabpanel" id="p-nishi-5" aria-labelledby="t-nishi-5" hidden><img src="testtaisaku/nishi_5.jpg?v=20261124" alt="松山西中等教育学校 5年生 テスト対策日程。11/22(日) 16:10〜17:40 数学Ⅱ、11/26(木) 15:15〜16:45 数学B、11/30(月) 18:45〜20:15 論表" width="1100" height="1204" loading="lazy"><details class="txt"><summary>日程を文字で見る</summary><table><tr><th>日付</th><th>時間</th><th>科目</th></tr><tr data-end="2026-11-22T17:40:00+09:00"><td class="d">11/22<span>（日）</span></td><td class="tm">16:10〜17:40</td><td class="sj">数学Ⅱ</td></tr><tr data-end="2026-11-26T16:45:00+09:00"><td class="d">11/26<span>（木）</span></td><td class="tm">15:15〜16:45</td><td class="sj">数学B</td></tr><tr data-end="2026-11-30T20:15:00+09:00"><td class="d">11/30<span>（月）</span></td><td class="tm">18:45〜20:15</td><td class="sj">論表</td></tr></table><p class="done-note">灰色は、終わった日程です。</p></details></div><div class="under"><a class="btn main" href="https://liff.line.me/1654282071-yKj0v7k8/landing?follow=%40354wbuiz&amp;lp=cX2AwV&amp;liff_id=1654282071-yKj0v7k8">この日程で<wbr>参加予約する</a></div></div><div class="notebook" id="sc-fuzoku" data-s="fuzoku" data-short="附属" hidden><p class="school-name"><b>愛媛大学附属高校</b><span>2学期 期末テスト対策</span></p><div class="tabs" role="tablist" aria-label="学年"><button class="tab" role="tab" id="t-fuzoku-1" aria-controls="p-fuzoku-1" aria-selected="true" data-grade="1">1年生</button><button class="tab" role="tab" id="t-fuzoku-2" aria-controls="p-fuzoku-2" aria-selected="false" data-grade="2">2年生</button></div><div class="panel" role="tabpanel" id="p-fuzoku-1" aria-labelledby="t-fuzoku-1"><img src="testtaisaku/fuzoku_1.jpg?v=20261124" alt="愛媛大学附属高校 1年生 テスト対策日程。11/23(月・祝) 18:45〜20:15 言語文化、11/25(水) 20:30〜22:00 数学Ⅰ、11/26(木) 17:00〜18:30 論理・表現、11/27(金) 14:00〜15:30 化学基礎、11/30(月) 14:00〜15:30 英コミ、11/30(月) 18:45〜20:15 数学A" width="1100" height="1375" loading="lazy"><details class="txt"><summary>日程を文字で見る</summary><table><tr><th>日付</th><th>時間</th><th>科目</th></tr><tr data-end="2026-11-23T20:15:00+09:00"><td class="d">11/23<span>（月・祝）</span></td><td class="tm">18:45〜20:15</td><td class="sj">言語文化</td></tr><tr data-end="2026-11-25T22:00:00+09:00"><td class="d">11/25<span>（水）</span></td><td class="tm">20:30〜22:00</td><td class="sj">数学Ⅰ</td></tr><tr data-end="2026-11-26T18:30:00+09:00"><td class="d">11/26<span>（木）</span></td><td class="tm">17:00〜18:30</td><td class="sj">論理・表現</td></tr><tr data-end="2026-11-27T15:30:00+09:00"><td class="d">11/27<span>（金）</span></td><td class="tm">14:00〜15:30</td><td class="sj">化学基礎</td></tr><tr data-end="2026-11-30T15:30:00+09:00"><td class="d">11/30<span>（月）</span></td><td class="tm">14:00〜15:30</td><td class="sj">英コミ</td></tr><tr data-end="2026-11-30T20:15:00+09:00"><td class="d">11/30<span>（月）</span></td><td class="tm">18:45〜20:15</td><td class="sj">数学A</td></tr></table><p class="done-note">灰色は、終わった日程です。</p></details></div><div class="panel" role="tabpanel" id="p-fuzoku-2" aria-labelledby="t-fuzoku-2" hidden><img src="testtaisaku/fuzoku_2.jpg?v=20261124" alt="愛媛大学附属高校 2年生 テスト対策日程。11/24(火) 18:45〜20:15 古典、11/24(火) 20:30〜22:00 数B、11/25(水) 12:15〜13:45 歴史総合、11/25(水) 14:00〜15:30 化学、11/28(土) 16:10〜17:40 数Ⅱ、11/28(土) 18:00〜19:30 英コミ" width="1100" height="1375" loading="lazy"><details class="txt"><summary>日程を文字で見る</summary><table><tr><th>日付</th><th>時間</th><th>科目</th></tr><tr data-end="2026-11-24T20:15:00+09:00"><td class="d">11/24<span>（火）</span></td><td class="tm">18:45〜20:15</td><td class="sj">古典</td></tr><tr data-end="2026-11-24T22:00:00+09:00"><td class="d">11/24<span>（火）</span></td><td class="tm">20:30〜22:00</td><td class="sj">数B</td></tr><tr data-end="2026-11-25T13:45:00+09:00"><td class="d">11/25<span>（水）</span></td><td class="tm">12:15〜13:45</td><td class="sj">歴史総合</td></tr><tr data-end="2026-11-25T15:30:00+09:00"><td class="d">11/25<span>（水）</span></td><td class="tm">14:00〜15:30</td><td class="sj">化学</td></tr><tr data-end="2026-11-28T17:40:00+09:00"><td class="d">11/28<span>（土）</span></td><td class="tm">16:10〜17:40</td><td class="sj">数Ⅱ</td></tr><tr data-end="2026-11-28T19:30:00+09:00"><td class="d">11/28<span>（土）</span></td><td class="tm">18:00〜19:30</td><td class="sj">英コミ</td></tr></table><p class="done-note">灰色は、終わった日程です。</p></details></div><div class="under"><a class="btn main" href="https://liff.line.me/1654282071-yKj0v7k8/landing?follow=%40354wbuiz&amp;lp=cX2AwV&amp;liff_id=1654282071-yKj0v7k8">この日程で<wbr>参加予約する</a></div></div>
 </div>
 </section>
 
